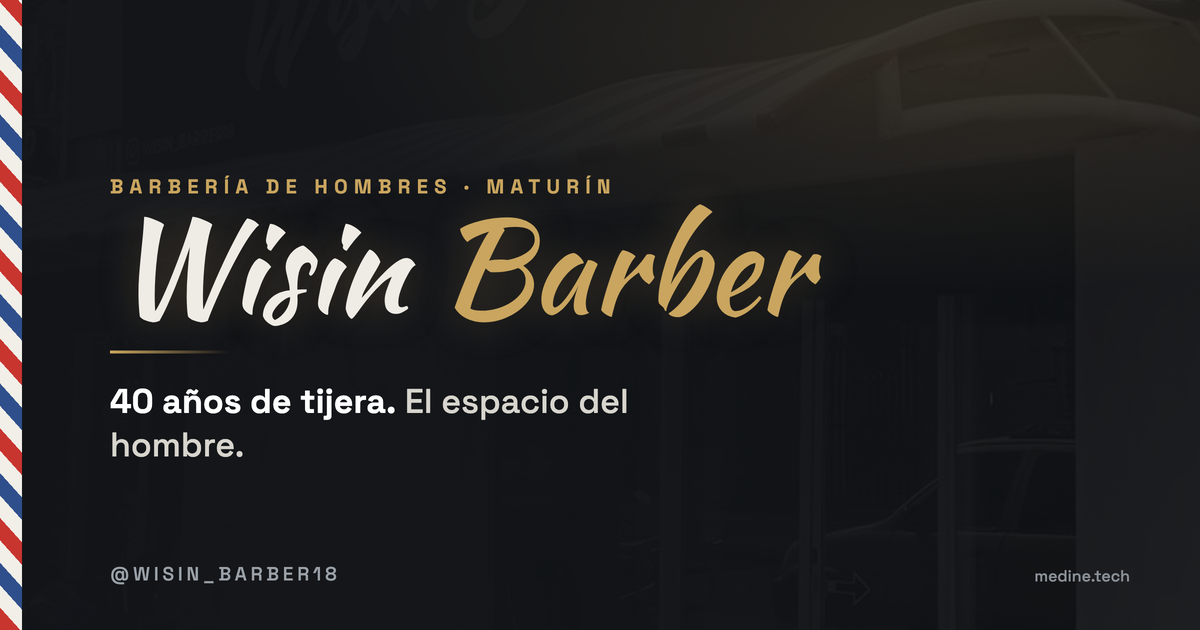
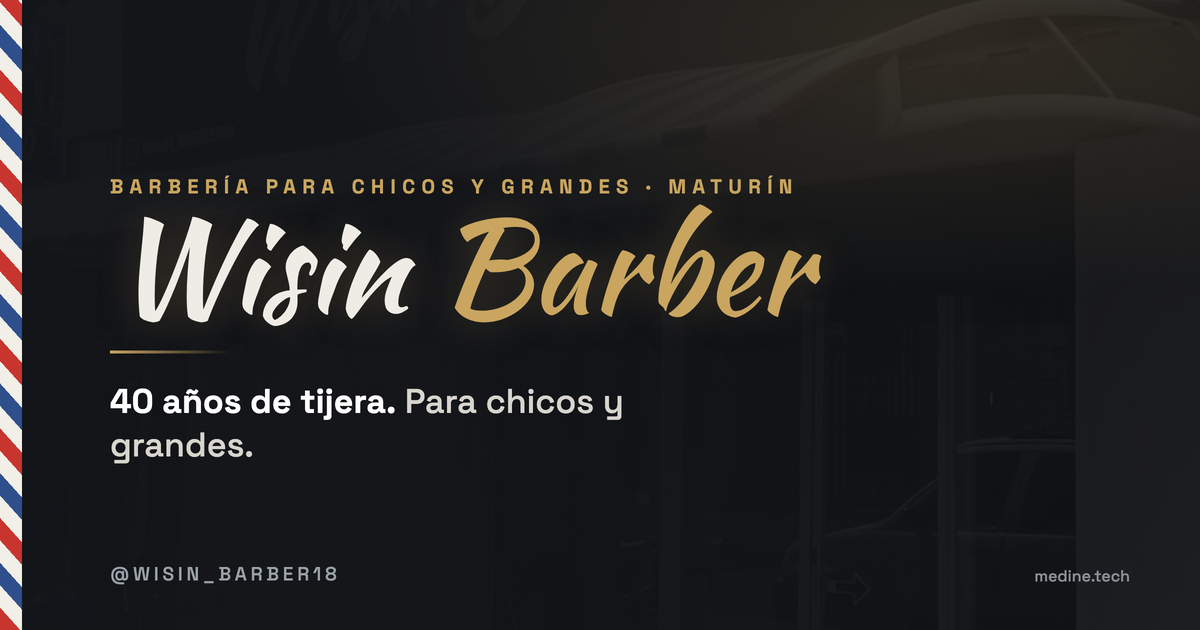
fix(wisin-barber): copy inclusivo 'chicos y grandes' + @IG clickeable
- eyebrow y motivo 'El espacio' de 'del hombre' → 'de chicos y grandes' (hero, nav chip, El local, footer, comanda, meta/OG)
- @wisin_barber18 del hero ahora enlaza al Instagram
- tarjeta OG (preview.png) regenerada

diff --git a/wisin-barber/index.html b/wisin-barber/index.html
@@ -3,15 +3,15 @@
 <head>
 <meta charset="UTF-8">
 <meta name="viewport" content="width=device-width, initial-scale=1.0">
-<title>Wisin Barber — Barbería de hombres · Maturín</title>
-<meta name="description" content="Wisin Barber, Maturín. 40 años de tijera en mano: el maestro y la nueva escuela, en la misma silla. El espacio del hombre.">
+<title>Wisin Barber — Barbería para chicos y grandes · Maturín</title>
+<meta name="description" content="Wisin Barber, Maturín. 40 años de tijera en mano: el maestro y la nueva escuela, en la misma silla. Un espacio para chicos y grandes.">
 <meta name="robots" content="noindex, nofollow">
 <meta name="theme-color" content="#131519">
 <meta name="color-scheme" content="dark">
 
 <!-- Open Graph -->
 <meta property="og:type" content="website">
-<meta property="og:title" content="Wisin Barber — El espacio del hombre, en Maturín">
+<meta property="og:title" content="Wisin Barber — Un espacio para chicos y grandes, en Maturín">
 <meta property="og:description" content="40 años de tijera. Cuatro de barbería. La misma silla. Pide tu turno.">
 <meta property="og:image" content="https://mnonline2001.github.io/medine-demos/wisin-barber/assets/preview.png">
 <meta property="og:url" content="https://mnonline2001.github.io/medine-demos/wisin-barber/">
@@ -143,6 +143,8 @@ h1.hero-brand span{color:var(--gold)}
 .hero-sub b{color:var(--bone); font-weight:700}
 .hero-actions{display:flex; gap:.8rem; justify-content:center; flex-wrap:wrap; margin-top:1.7rem}
 .hero-meta{margin-top:1.4rem; font-size:.76rem; letter-spacing:.24em; text-transform:uppercase; color:var(--smoke)}
+.hero-meta a{color:inherit; transition:color .2s; text-underline-offset:3px}
+.hero-meta a:hover, .hero-meta a:focus-visible{color:var(--gold); text-decoration:underline}
 
 /* ============ Buttons ============ */
 .btn{display:inline-flex; align-items:center; gap:.55rem; font-family:var(--f); font-weight:600; font-size:.92rem;
@@ -304,7 +306,7 @@ footer{background:linear-gradient(180deg,#0d0f12, #0a0b0e); border-top:1px solid
       <a href="#linaje">El maestro</a>
       <a href="#carta">La carta</a>
       <a href="#local">El local</a>
-      <span class="status"><span class="dot"></span>El espacio del hombre</span>
+      <span class="status"><span class="dot"></span>Chicos y grandes</span>
       <a class="nav-cta" data-wa data-msg="Hola Wisin Barber 👋 Quiero pedir un turno.">Pedir turno</a>
     </nav>
   </div>
@@ -322,7 +324,7 @@ footer{background:linear-gradient(180deg,#0d0f12, #0a0b0e); border-top:1px solid
       <span class="bulbs lr l" aria-hidden="true"></span>
       <span class="bulbs lr r" aria-hidden="true"></span>
       <div class="in">
-        <span class="eyebrow">Barbería de hombres · Maturín</span>
+        <span class="eyebrow">Barbería para chicos y grandes · Maturín</span>
         <h1 class="hero-brand">Wisin <span>Barber</span></h1>
         <div class="hero-rule"></div>
         <p class="hero-sub"><b>40 años de tijera.</b> Cuatro de barbería. La misma silla.</p>
@@ -333,7 +335,7 @@ footer{background:linear-gradient(180deg,#0d0f12, #0a0b0e); border-top:1px solid
           </a>
           <a class="btn btn-ghost" href="#carta">Ver la carta</a>
         </div>
-        <p class="hero-meta">@wisin_barber18</p>
+        <p class="hero-meta"><a href="https://www.instagram.com/wisin_barber18/" target="_blank" rel="noopener">@wisin_barber18</a></p>
       </div>
     </div>
   </div>
@@ -346,7 +348,7 @@ footer{background:linear-gradient(180deg,#0d0f12, #0a0b0e); border-top:1px solid
     <div class="lin-grid">
       <div class="lin-copy">
         <h2 class="h2">Dos generaciones,<br>una sola navaja.</h2>
-        <p>Wisin Barber nació hace <b>cuatro años</b> como la casa de la nueva escuela: fade limpio, líneas al milímetro, barba definida. El lugar donde el hombre de Maturín viene a verse bien.</p>
+        <p>Wisin Barber nació hace <b>cuatro años</b> como la casa de la nueva escuela: fade limpio, líneas al milímetro, barba definida. El lugar donde Maturín viene a verse bien.</p>
         <p>Desde <b>diciembre</b>, el maestro se sentó en la silla: <b>el Sr. Charles</b>, el papá. <b>Cuarenta años de tijera en mano</b> — el corte clásico, el pulso que no tiembla, el oficio que no se aprende en un tutorial. Llegó a casa, y ahora está aquí para ti.</p>
         <p class="pull">La experiencia no se improvisa: se hereda.</p>
       </div>
@@ -374,7 +376,7 @@ footer{background:linear-gradient(180deg,#0d0f12, #0a0b0e); border-top:1px solid
         <span class="sec-tag"><b>02</b> La carta de la casa</span>
         <h2 class="h2">Lo que se hace en la silla.</h2>
       </div>
-      <p class="lead">Corte, barba y detalle para el hombre. Cada servicio, con el pulso de quien lleva 40 años en esto.</p>
+      <p class="lead">Corte, barba y detalle para chicos y grandes. Cada servicio, con el pulso de quien lleva 40 años en esto.</p>
     </div>
     <div class="carta">
       <div class="srv"><span class="num">01</span><span class="name">Corte de caballero<small>Fade, clásico o a máquina — como lo pidas.</small></span></div>
@@ -393,7 +395,7 @@ footer{background:linear-gradient(180deg,#0d0f12, #0a0b0e); border-top:1px solid
 <section class="local" id="local">
   <div class="wrap">
     <span class="sec-tag"><b>03</b> El local</span>
-    <h2 class="h2">El espacio del hombre, en buena zona.</h2>
+    <h2 class="h2">El espacio de chicos y grandes, en buena zona.</h2>
     <p class="lead">Barbería de esquina, fácil de encontrar. Ambiente cuidado, iluminación de estación y una sala para esperar tranquilo.</p>
     <div class="gal">
       <div class="shot wide">
@@ -464,7 +466,7 @@ footer{background:linear-gradient(180deg,#0d0f12, #0a0b0e); border-top:1px solid
             <div class="tk-row"><span class="k">Cuándo</span><span class="v" id="t-when">Hoy</span></div>
           </div>
           <div class="tk-foot">
-            <span class="tot">El espacio del hombre</span>
+            <span class="tot">Para chicos y grandes</span>
             <div class="price">Maturín</div>
             <a class="btn btn-wa" id="t-send" style="width:100%; justify-content:center">
               <svg viewBox="0 0 24 24" fill="currentColor"><path d="M12 2a10 10 0 0 0-8.6 15l-1.3 4.8 4.9-1.3A10 10 0 1 0 12 2zm5.8 14.2c-.2.7-1.4 1.3-2 1.4-.5.1-1.2.1-1.9-.1-.4-.1-1-.3-1.7-.6-3-1.3-4.9-4.3-5.1-4.5-.1-.2-1.2-1.5-1.2-2.9s.7-2 1-2.3c.2-.3.5-.3.7-.3h.5c.2 0 .4 0 .6.5l.8 2c.1.1.1.3 0 .5l-.4.6c-.2.2-.3.4-.1.7.2.3.9 1.4 1.9 2.3 1.3 1.1 2.3 1.5 2.6 1.6.3.1.5.1.7-.1l.9-1c.2-.2.4-.2.6-.1l2 .9c.3.2.5.2.5.4.1.2.1.9-.1 1.4z"/></svg>
@@ -499,7 +501,7 @@ footer{background:linear-gradient(180deg,#0d0f12, #0a0b0e); border-top:1px solid
       <div class="foot-grid">
         <div>
           <div class="foot-brand">Wisin <span>Barber</span></div>
-          <p>El espacio del hombre en Maturín. Cuarenta años de tijera, una silla que te espera.</p>
+          <p>El espacio de chicos y grandes en Maturín. Cuarenta años de tijera, una silla que te espera.</p>
         </div>
         <div class="fcol">
           <h4>La casa</h4>

diff --git a/wisin-barber/preview.source.html b/wisin-barber/preview.source.html
@@ -29,10 +29,10 @@
     <div class="bg"><img src="./assets/fachada.jpg" alt=""></div>
     <div class="pole"></div>
     <div class="in">
-      <div class="eyebrow">Barbería de hombres · Maturín</div>
+      <div class="eyebrow">Barbería para chicos y grandes · Maturín</div>
       <div class="brand">Wisin <span>Barber</span></div>
       <div class="rule"></div>
-      <div class="tag"><b>40 años de tijera.</b> El espacio del hombre.</div>
+      <div class="tag"><b>40 años de tijera.</b> Para chicos y grandes.</div>
     </div>
     <div class="foot">@wisin_barber18</div>
     <div class="badge">medine.tech</div>
